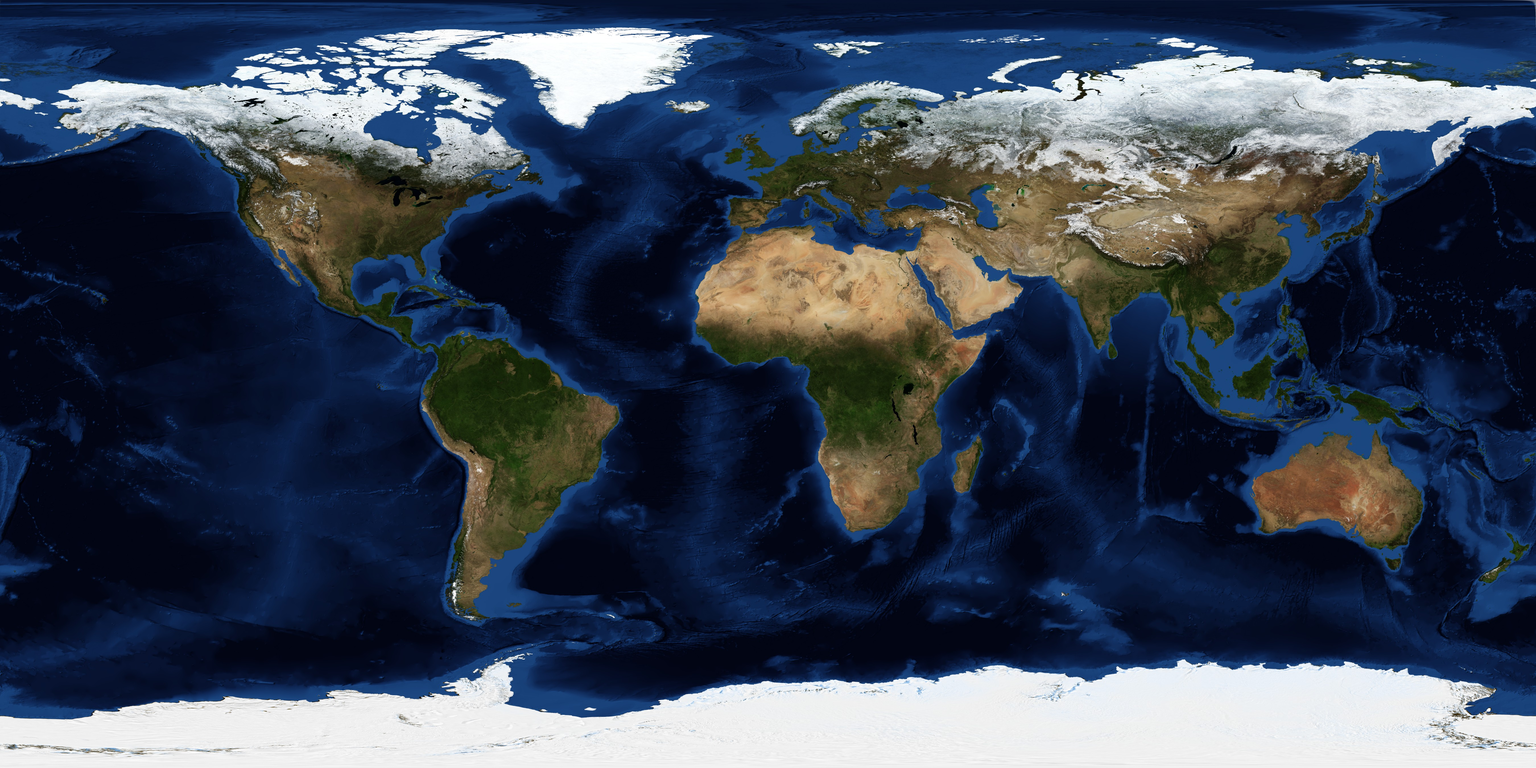
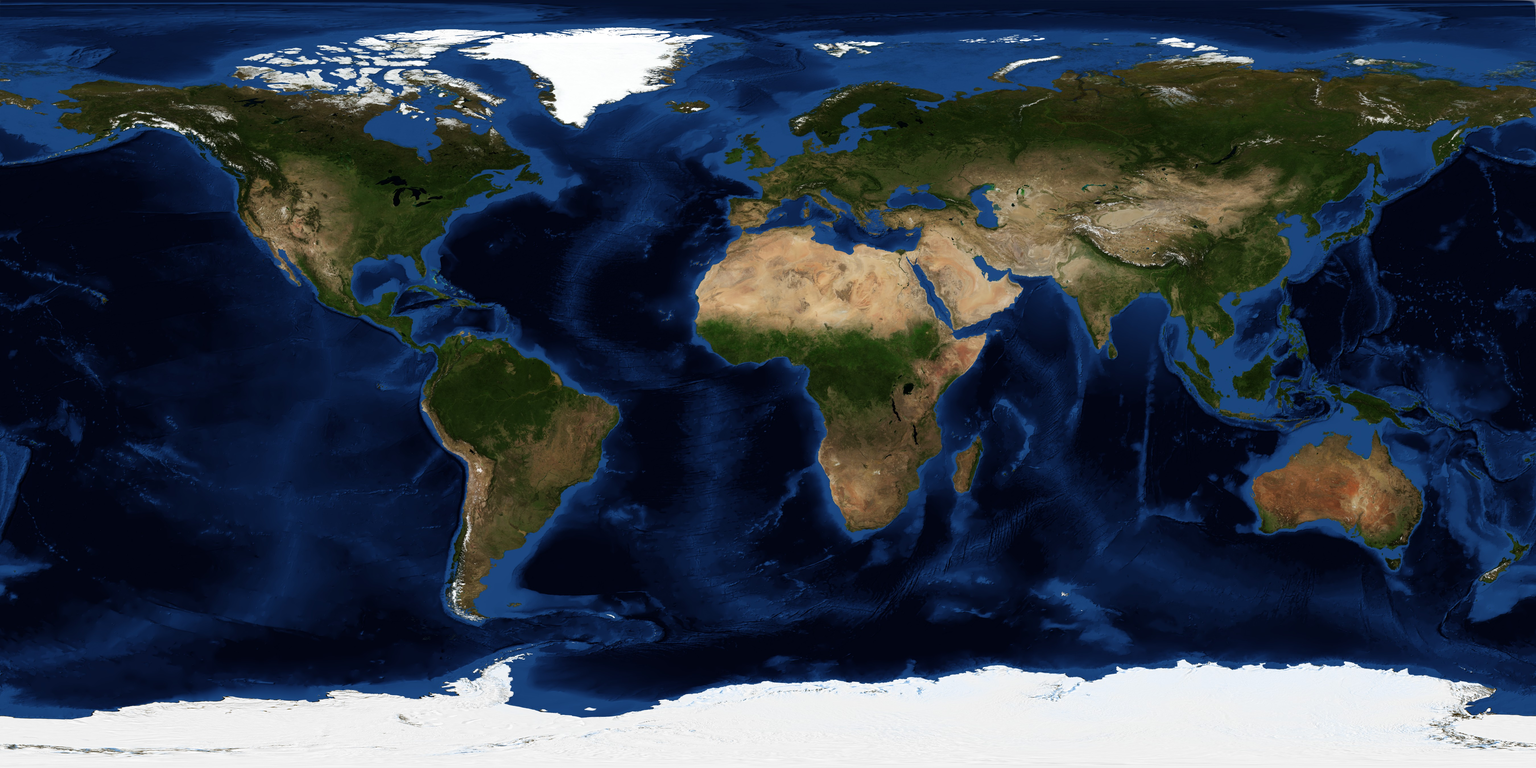
a

diff --git a/simulations/aaaa.py b/simulations/aaaa.py
@@ -1,0 +1,190 @@
+import numpy as np
+from scipy.integrate import solve_ivp
+import matplotlib.pyplot as plt
+from utils.visualization import ElementsSeries, plot_classic_orbital_elements
+from utils.orbital_elements import*
+from utils.orbitalElementsOperations import*
+import os
+
+# ===================== condições iniciais =====================
+r = np.array([6877.452, 0.0, 0.0])     # ITASAT-2 (circular ~LEO)
+v = np.array([0.0, 5.383, 5.383])
+
+t = np.linspace(0, 43200, 10000)  # 12 h
+earth_radius = 6378.0  # km
+mu = 3.986e5           # km^3/s^2
+thrust = 0     # N
+
+# ===================== Propulsão / massa =====================
+T   = thrust    # N
+Isp = 2150.0    # s
+g0  = 9.80665   # m/s^2
+m_sat = 20.0    # kg
+m0    = 20.0    # kg
+m_dry = 15.0    # kg
+
+# ===================== Achatamento (J2 e J22 do ar_prs) =====================
+from achatamento import EarthShapeParams as ShapeParams, accel_achatamento_total
+_USE_J2  = False
+_USE_J22 = False
+_GAMMA   = 7.2921150e-5
+LAMBDA22_DEG = -14.79
+_SHAPE   = ShapeParams()
+LAMBDA22_RAD = np.deg2rad(LAMBDA22_DEG)
+
+def _lambdat_rad(tval: float) -> float:
+    return _GAMMA * float(tval)
+
+def _accel_achatamento(r_vec: np.ndarray, tval: float) -> np.ndarray:
+    return accel_achatamento_total(
+        r_vec, _SHAPE,
+        lambdat_rad=_lambdat_rad(tval),
+        lambda22_rad=LAMBDA22_RAD,
+        use_j2=_USE_J2,
+        use_j22=_USE_J22
+    )
+
+# ===================== Arrasto atmosférico (opcional) =====================
+from Drag import accel_drag, DragParams
+_DRAG_ON = False
+_DRAG = DragParams(Cd=2.2, A_ref_m2=0.02, use_atmo_rotation=True,
+                   rho0_kg_m3=3.614e-11, h0_km=200.0, H_km=50.0)
+
+def _accel_DRAG(r_vec, v_vec, m_cur):
+    return accel_drag(r_vec, v_vec, m_cur, _DRAG) if _DRAG_ON else 0.0 * r_vec
+
+# ===================== Janelas empuxo =====================
+THRUST_INTERVAL_DEG = 30.0
+MEAN_THETA_LIST_DEG = [180]
+
+def throttle(t, x):
+    if T <= 0.0:
+        return 0.0
+    return 1.0 if x[6] > m_dry else 0.0
+
+def wrap_deg(a):
+    return np.remainder(a, 360.0)
+
+def angle_in_window_deg(theta_deg, center_deg, width_deg):
+    half = 0.5*width_deg
+    lo = wrap_deg(center_deg - half)
+    hi = wrap_deg(center_deg + half)
+    th = wrap_deg(theta_deg)
+    if lo <= hi:
+        return (th >= lo) and (th <= hi)
+    else:
+        return (th >= lo) or (th <= hi)
+
+def in_any_window(theta_deg):
+    return any(angle_in_window_deg(theta_deg, cdeg, THRUST_INTERVAL_DEG)
+               for cdeg in MEAN_THETA_LIST_DEG)
+
+# ===================== Helpers robustos =====================
+_EPS_E = 1e-5
+_EPS_I = np.deg2rad(1e-3)
+
+def _safe_norm(x):
+    n = np.linalg.norm(x)
+    return n if n > 1e-32 else 1e-32
+
+def _argument_of_latitude_deg(r_vec, v_vec):
+    r = np.array(r_vec, float).reshape(3)
+    v = np.array(v_vec, float).reshape(3)
+    rnorm = _safe_norm(r)
+    h = np.cross(r, v)
+    hnorm = _safe_norm(h)
+    k = np.array([0.0, 0.0, 1.0])
+    n = np.cross(k, h)
+    nnorm = np.linalg.norm(n)
+    i_rad = np.arccos(np.clip(h[2]/hnorm, -1.0, 1.0))
+    if i_rad <= _EPS_I or nnorm < 1e-14:
+        return np.degrees(np.arctan2(r[1], r[0])) % 360.0
+    cosu = np.dot(n, r)/(nnorm*rnorm)
+    sinu = np.dot(np.cross(n, r), h)/(nnorm*rnorm*hnorm)
+    u = np.degrees(np.arctan2(sinu, np.clip(cosu, -1.0, 1.0))) % 360.0
+    return u
+
+# ===================== Dinâmica =====================
+def x_dot(t, x):
+    xdot = np.zeros_like(x)
+    xdot[0:3] = x[3:6]
+    r_vec = x[0:3]
+    v_vec = x[3:6]
+    rnorm = np.linalg.norm(r_vec) + 1e-32
+    xdot[3:6] = -(mu/(rnorm**3))*r_vec
+    xdot[3:6] += _accel_achatamento(r_vec, t)
+    m_cur = max(x[6], 1e-18)
+    xdot[3:6] += _accel_DRAG(r_vec, v_vec, m_cur)
+    u = throttle(t, x)
+    a_inst = (T / m_cur) / 1000.0
+    r_hat = r_vec / rnorm
+    h_vec_local = np.cross(r_vec, v_vec)
+    w_hat = h_vec_local / (_safe_norm(h_vec_local))
+    s_hat = np.cross(w_hat, r_hat)
+    s_hat /= _safe_norm(s_hat)
+    if u > 0.0:
+        xdot[3:6] += a_inst * s_hat
+        xdot[6] = - T/(Isp*g0)
+    else:
+        xdot[6] = 0.0
+    return xdot
+
+# ===================== Integração =====================
+x0 = np.concatenate((r, v, [m0]))
+sol = solve_ivp(x_dot, (t[0], t[-1]), x0, t_eval=t, method="DOP853", rtol=1e-12, atol=1e-15)
+X = sol.y
+
+# ===================== Plot dos elementos =====================
+a_series = np.array([get_major_axis(X[0:3, k], X[3:6, k], mu) for k in range(X.shape[1])])
+e_series = np.array([get_eccentricity(X[0:3, k], X[3:6, k], mu) for k in range(X.shape[1])])
+i_deg_series = np.array([get_inclination(X[0:3, k], X[3:6, k], mu) for k in range(X.shape[1])])
+Om_deg_series = np.array([get_ascending_node(X[0:3, k], X[3:6, k], mu) for k in range(X.shape[1])])
+w_deg_series = np.array([get_argument_of_perigee(X[0:3, k], X[3:6, k], mu) for k in range(X.shape[1])])
+nu_deg_series = np.array([get_true_anomaly(X[0:3, k], X[3:6, k], mu) for k in range(X.shape[1])])
+u_deg_series = np.array([get_argument_of_latitude(X[0:3, k], X[3:6, k], mu) for k in range(X.shape[1])])
+ltrue_deg_series = np.array([get_true_longitude(X[0:3, k], X[3:6, k], mu) for k in range(X.shape[1])])
+energy_series = np.array([0.5*np.dot(X[3:6, k], X[3:6, k]) - mu/np.linalg.norm(X[0:3, k]) for k in range(X.shape[1])])
+elems = ElementsSeries(a_series, e_series, i_deg_series, Om_deg_series, w_deg_series, nu_deg_series, u_deg_series, ltrue_deg_series, energy_series)
+
+plot_classic_orbital_elements(t, elems)
+
+# ===================== Função para Terra texturizada =====================
+def draw_textured_earth(ax, radius_km: float, texture_path: str,
+                        n_long: int = 360, n_lat: int = 180, alpha: float = 1.0):
+    if not os.path.isfile(texture_path):
+        raise FileNotFoundError(f"Textura não encontrada: {texture_path}")
+
+    img = plt.imread(texture_path)
+    if img.dtype != np.float32 and img.dtype != np.float64:
+        img = img.astype(np.float32) / 255.0
+
+    H, W = img.shape[:2]
+    u = np.linspace(0, 2*np.pi, n_long)
+    v = np.linspace(0, np.pi, n_lat)
+    uu, vv = np.meshgrid(u, v)
+    x = radius_km * np.cos(uu) * np.sin(vv)
+    y = radius_km * np.sin(uu) * np.sin(vv)
+    z = radius_km * np.cos(vv)
+    iu = (uu / (2*np.pi) * (W - 1)).astype(int)
+    iv = (vv / np.pi * (H - 1)).astype(int)
+    iv = (H - 1) - iv
+    rgb = img[iv, iu, :3]
+    a = np.full((*rgb.shape[:2], 1), float(alpha), dtype=rgb.dtype)
+    facecolors = np.dstack([rgb, a])
+    ax.plot_surface(x, y, z, rstride=1, cstride=1, facecolors=facecolors,
+                    linewidth=0, antialiased=False, shade=False)
+
+# ===================== Plot 3D com textura =====================
+fig = plt.figure()
+ax = fig.add_subplot(111, projection="3d")
+
+TEXTURE_PATH = "assets/earth.jpeg"  # coloque aqui o caminho do arquivo
+draw_textured_earth(ax, radius_km=earth_radius, texture_path=TEXTURE_PATH)
+
+ax.plot3D(X[0, :], X[1, :], X[2, :], color='lime', lw=1.8, label="Órbita (V-only)")
+ax.set_box_aspect([1, 1, 1])
+ax.set_title("Órbita simulada - Terra Texturizada")
+ax.legend()
+ax.axis('off')
+
+plt.show()

diff --git a/simulations/utils/visualization.py b/simulations/utils/visualization.py
@@ -15,17 +15,10 @@ class ElementsSeries:
     nu_deg: np.ndarray
     u_deg: np.ndarray
     ltrue_deg: np.ndarray
-    energy: np.ndarray  # mantido para compatibilidade, mesmo sem plotar aqui
+    energy: np.ndarray  # compatibilidade
 
 def _process_angles(inc_deg, Om_deg, w_deg, nu_deg, u_deg, ltrue_deg,
                     e_series, win_frac: int = 200):
-    """
-    - Desembrulha e suaviza séries angulares.
-    - RAAN: **sem módulo 360°** (contínuo) para evitar serrilhado.
-    - Em i≈0: usa Ω_pref ≈ ℓ_true − ω (também contínuo, sem módulo).
-    - ν_pref: usa u quando e≈0; caso contrário, ν (ambos com módulo p/ ficar em [0,360) no painel dedicado).
-    Retorna: Om_pref_cont, w_s_mod, nu_pref_mod, u_s_mod, lt_s_mod
-    """
     N = len(inc_deg)
     win = max(5, (N // win_frac) | 1)
 
@@ -35,29 +28,23 @@ def _process_angles(inc_deg, Om_deg, w_deg, nu_deg, u_deg, ltrue_deg,
         x = np.rad2deg(x)
         return np.mod(x, 360.0) if do_mod else x
 
-    # Séries contínuas (sem módulo) p/ Ω, ω e ℓ_true
-    Om_cont = cont_smooth(Om_deg,   do_mod=False)
-    w_cont  = cont_smooth(w_deg,    do_mod=False)
-    lt_cont = cont_smooth(ltrue_deg,do_mod=False)
+    Om_cont = cont_smooth(Om_deg, do_mod=False)
+    w_cont  = cont_smooth(w_deg, do_mod=False)
+    lt_cont = cont_smooth(ltrue_deg, do_mod=False)
 
-    # Séries com módulo p/ painéis que devem ficar em [0,360)
-    w_mod   = cont_smooth(w_deg,    do_mod=True)
-    nu_mod  = cont_smooth(nu_deg,   do_mod=True)
-    u_mod   = cont_smooth(u_deg,    do_mod=True)
-    lt_mod  = cont_smooth(ltrue_deg,do_mod=True)
+    w_mod   = cont_smooth(w_deg, do_mod=True)
+    nu_mod  = cont_smooth(nu_deg, do_mod=True)
+    u_mod   = cont_smooth(u_deg, do_mod=True)
+    lt_mod  = cont_smooth(ltrue_deg, do_mod=True)
 
-    # Máscaras
     e_eps  = 1e-5
-    i_eps  = 1e-3  # graus
+    i_eps  = 1e-3
     mask_circ = (e_series < e_eps)
     dist_eq   = np.minimum(inc_deg, 180.0 - inc_deg)
     mask_eq   = (dist_eq < i_eps)
 
-    # i≈0 -> prefira Ω ≈ ℓ_true − ω (tudo contínuo); caso contrário, use Ω contínuo
     Om_pref_cont = np.where(mask_eq, lt_cont - w_cont, Om_cont)
-
-    # e≈0 -> prefira u; caso contrário, ν (com módulo para o painel em [0,360))
-    nu_pref_mod = np.where(mask_circ, u_mod, nu_mod)
+    nu_pref_mod  = np.where(mask_circ, u_mod, nu_mod)
 
     return Om_pref_cont, w_mod, nu_pref_mod, u_mod, lt_mod
 
@@ -66,38 +53,52 @@ def plot_classic_orbital_elements(t: np.ndarray, elems: ElementsSeries):
     """
     Plota (3x2):
       [0,0] a (km)            [0,1] e
-      [1,0] i (deg)           [1,1] Ω preferencial (deg)
-      [2,0] u (arg. latitude) [2,1] ν_pref (ν ou u quando e≈0)
+      [1,0] i (deg)           [1,1] Ω (deg)
+      [2,0] ω (deg)           [2,1] ν e ω (deg)
     """
     Om_s, w_s, nu_pref, u_s, lt_s = _process_angles(
-        elems.i_deg, elems.Omega_deg, elems.omega_deg, elems.nu_deg,
-        elems.u_deg, elems.ltrue_deg, elems.e
+        elems.i_deg, elems.Omega_deg, elems.omega_deg,
+        elems.nu_deg, elems.u_deg, elems.ltrue_deg, elems.e
     )
 
-    fig, axs = plt.subplots(3, 2, figsize=(12, 10))
+    # ajuste de escala mais adequada para visualização
+    fig, axs = plt.subplots(3, 2, figsize=(14, 10))  # maior figura
+    plt.subplots_adjust(hspace=0.4, wspace=0.3)
 
-    # Linha 0: a (azul) e e (amarelo)
-    axs[0, 0].plot(t, elems.a, color="blue")
+    # Linha 0: a e e
+    axs[0, 0].plot(t, elems.a, color="blue", lw=1.8)
     axs[0, 0].set_title('Semi-eixo maior a [km]')
-    axs[0, 1].plot(t, elems.e, color="yellow")
+    axs[0, 1].plot(t, elems.e, color="orange", lw=1.8)
     axs[0, 1].set_title('Excentricidade e')
-    #axs[0, 1].set_ylim(-1, 1)
-    # Linha 1: i (verde) e RAAN (vermelho, contínuo/corrigido)
-    axs[1, 0].plot(t, elems.i_deg, color="green")
-    axs[1, 0].set_title('Inclinação i [deg]')
-    axs[1, 1].plot(t, Om_s, color="red")
-    axs[1, 1].set_title('RAAN Ω [deg]')
-    axs[1, 1].set_ylim(-10, 10)
+    axs[0, 0].set_ylim(min(elems.a)*0.999, max(elems.a)*1.001)
+    axs[0, 1].set_ylim(-0.01, 0.01)
 
-    # Linha 2: u (roxo) e ν_pref (vinho/maroon)
-    axs[2, 0].plot(t, u_s, color="cyan")
-    axs[2, 0].set_title('Argumento de latitude [deg]')
-    axs[2, 1].plot(t, nu_pref, color="maroon")
-    axs[2, 1].plot(t, w_s, color="purple")
-    axs[2, 1].set_title('Anomalia verdadeira com Argumento de Perigeu [deg]')
+    # Linha 1: i e RAAN
+    axs[1, 0].plot(t, elems.i_deg, color="green", lw=1.8)
+    axs[1, 0].set_title('Inclinação i [deg]')
+    axs[1, 0].set_ylim(min(elems.i_deg)*0.99, max(elems.i_deg)*1.01)
+
+    axs[1, 1].plot(t, Om_s, color="red", lw=1.8)
+    axs[1, 1].set_title('RAAN Ω [deg]')
+    axs[1, 1].set_ylim(min(Om_s)*0.99, max(Om_s)*1.01)
+
+    # Linha 2: ω e ν (último gráfico à direita com legenda explicativa)
+    axs[2, 0].plot(t, u_s, color="cyan", lw=1.8)
+    axs[2, 0].set_title('Argumento de Latitude')
+    axs[2, 0].set_ylim(0, 360)
+
+    axs[2, 1].plot(t, nu_pref, color="maroon", lw=1.8, label='Anomalia Verdadeira ν')
+    axs[2, 1].plot(t, w_s, color="purple", lw=1.3, linestyle='--', label='Argumento do Perigeu ω')
+    axs[2, 1].set_title('Anomalia Verdadeira e Argumento do Perigeu [deg]')
+    axs[2, 1].legend(loc='best', fontsize=9)
+    axs[2, 1].set_ylim(min(min(nu_pref), min(w_s))*0.99,
+                       max(max(nu_pref), max(w_s))*1.01)
 
     for ax in axs.ravel():
-        ax.grid(True)
+        ax.grid(True, linestyle='--', alpha=0.6)
         ax.set_xlabel('Tempo [s]')
-    fig.tight_layout()
+        ax.set_xlim(t[0], t[-1])
+
+    fig.suptitle("Evolução dos Elementos Orbitais Clássicos (Problema de Dois Corpos)", fontsize=14, y=0.98)
+    fig.tight_layout(rect=[0, 0.03, 1, 0.96])
     return fig, axs

diff --git a/simulations/sat_v_only.py b/simulations/sat_v_only.py
@@ -18,7 +18,7 @@ v = np.array([0.0, 5.383, 5.383])
 t = np.linspace(0, 43200, 10000)  # 12 h
 earth_radius = 6378.0  # km
 mu = 3.986e5           # km^3/s^2
-thrust = 1.1e-3     # N
+thrust = 0     # N
 
 # ===================== Propulsão / massa =====================
 T   = thrust    # N
@@ -33,8 +33,8 @@ from achatamento import (
     EarthShapeParams as ShapeParams,
     accel_achatamento_total,
 )
-_USE_J2  = True
-_USE_J22 = True       # ligue para testar
+_USE_J2  = False
+_USE_J22 = False      # ligue para testar
 _GAMMA   = 7.2921150e-5     # rad/s, rotação da Terra em ECI (tesseral “gira”)
 LAMBDA22_DEG = -14.79 # lambdat = gamma * t (rad) 
 _SHAPE   = ShapeParams()  # μ, Re, J2, J22
